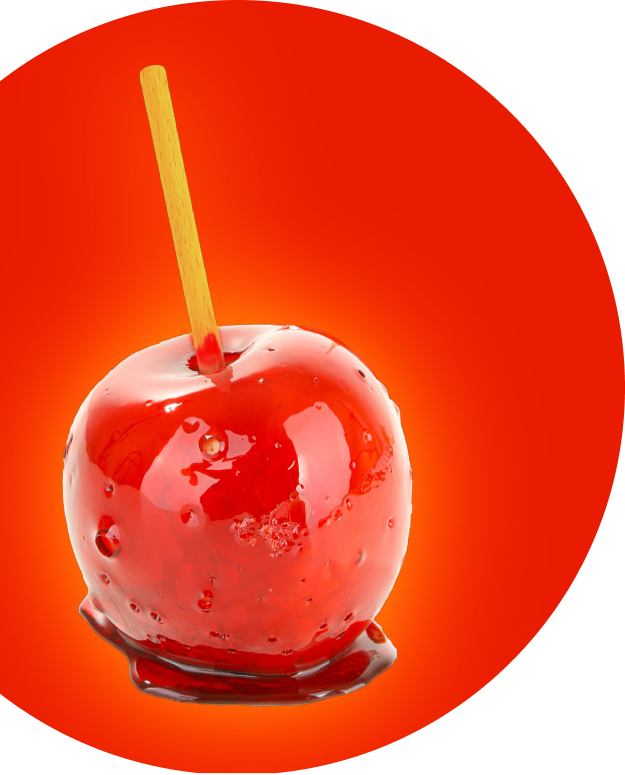
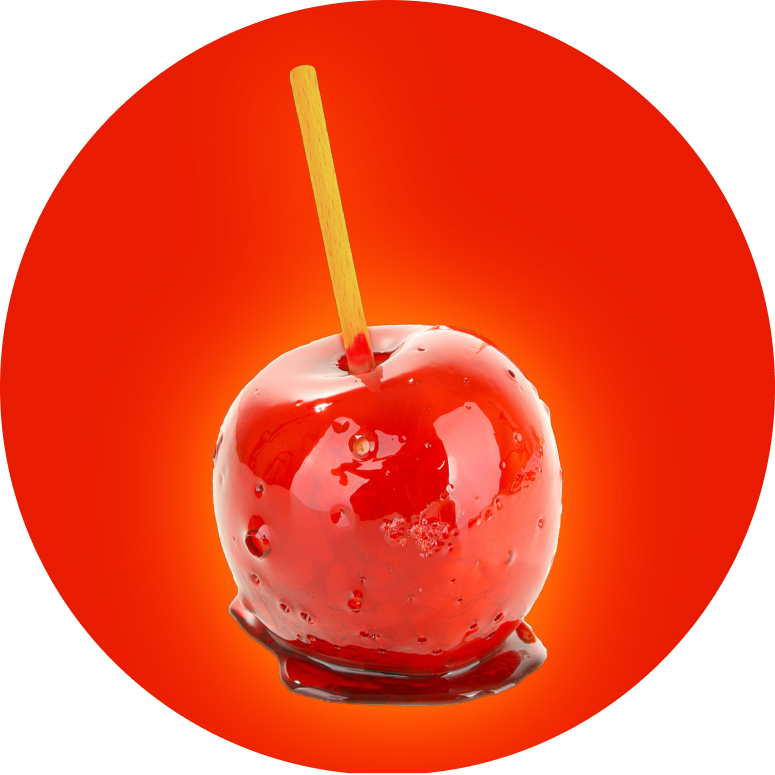
update results page layout

diff --git a/flavor-quiz/src/components/Results/Results.css b/flavor-quiz/src/components/Results/Results.css
@@ -2,8 +2,9 @@
   display: flex;
   flex-direction: row;
   gap: 2rem;
+  justify-content: center;
+  overflow: hidden;
   padding-top: 2rem;
-  width: 100%;
 }
 
 .flavor-container {
@@ -11,25 +12,39 @@
   color: #FFF;
   display: flex;
   flex-direction: column;
+  margin-right: 2rem;
   text-align: center;
 }
 
+/* @TODO: rework height clamp */
 .flavor-image {
-  width: 35%;
+  align-self: center;
+  max-width: 30%;
+  height: clamp(11rem, 12rem, 30rem);
+  object-fit: cover;
+  object-position: right;
+  flex-shrink: 0; 
+}
+
+@media screen and (min-width: 769px) {
+  .flavor-image {
+    height: 17rem; /* Preferred height for screens wider than 768px */
+  }
 }
 
 .flavor-text {
   font-weight: 800;
+  font-size: 30px;
   text-transform: uppercase;
 }
 
 p {
-  font-weight: bold;
   font-size: large;
 }
 
 .perfect-text {
   color: #FF6F89;
+  font-size: smaller;
   font-weight:900;
   text-shadow: 
   -1px -1px 0 #fff,  
@@ -59,7 +74,10 @@ p {
 }
 
 .pillow-image {
-  width: 50%;
+  padding: 1rem 0;
+  min-width: 10rem;
+  max-width: 17rem;
+  width: 80%;
 }
 
 .results-container {
@@ -72,7 +90,6 @@ p {
 
 .trait-name {
   color: #FFD101;
-  font-weight: bold;
   font-size: large;
   text-transform: uppercase;
 }

diff --git a/flavor-quiz/src/components/Results/Results.js b/flavor-quiz/src/components/Results/Results.js
@@ -7,9 +7,6 @@ import candyApplePillow from '../../assets/candy-apple-pillow.png';
 import keyLimePillow from '../../assets/key-lime-pillow.png';
 import strawberryPillow from '../../assets/strawberry-pillow.png';
 
-import strawberryFull from '../../assets/strawberry-full.png';
-
-
 import './Results.css'
 
 // TODO: strongly type pesronality traits
@@ -123,7 +120,7 @@ const Results = ({ answers }) => {
         <img src={flavorImage} alt="Flavor Image" className="flavor-image" />
         <div className="flavor-container">
           <h1 className="flavor-text">
-            <span className="perfect-text">Your perfect flavor is</span>
+            <span className="perfect-text">Your perfect<br></br> flavor is</span>
             <br></br> 
             {flavor}!
           </h1>

diff --git a/flavor-quiz/src/App.js b/flavor-quiz/src/App.js
@@ -12,10 +12,10 @@ const questions = [
     question: "What's your go-to dessert topping?", 
     choices: ['Fresh berries', 'Whipped cream', 'Caramel drizzle'] 
   },
-  { id: 2, 
-    question: "How do you prefer your dessert to be served?", 
-    choices: ['In a cone', 'On a plate', 'On a stick'] 
-  },
+  // { id: 2, 
+  //   question: "How do you prefer your dessert to be served?", 
+  //   choices: ['In a cone', 'On a plate', 'On a stick'] 
+  // },
   // { id: 3, 
   //   question: "What's your favorite type of exercise?", 
   //   choices: ['Yoga or pilates', 'Hiking or exploring nature', 'Dancing or team sports'] 

diff --git a/flavor-quiz/src/components/Question/Question.css b/flavor-quiz/src/components/Question/Question.css
@@ -51,6 +51,7 @@ button.selected {
   color: #FFF;
   display: flex;
   flex-direction: column;
+  overflow: hidden;
   padding: 2rem 3rem 0;
 }
 
